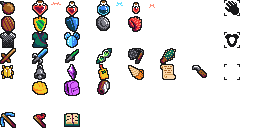
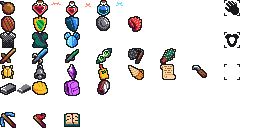
added whetstone

Changed region(s): [[0.0, 0.625, 0.125, 0.75], [0.5, 0.0, 0.625, 0.125], [0.3125, 0.0312, 0.375, 0.0625]]

diff --git a/ts/level/battle/battleManager.ts b/ts/level/battle/battleManager.ts
@@ -1,4 +1,9 @@
-import { ChangeCursorState, ChangeScene, EnemyAtack } from "../../action.js";
+import {
+  ChangeCursorState,
+  ChangeScene,
+  EnemyAtack,
+  LoseGame,
+} from "../../action.js";
 import { canvasManager } from "../../canvasManager.js";
 import { CURSORBATTLE } from "../../cursor.js";
 import GameObject from "../../gameElements/gameObject.js";
@@ -226,7 +231,6 @@ export default class BattleManager extends SceneManager {
     }
 
     // Render damage overlay
-
     damageOverlay.render();
   };
 
@@ -238,6 +242,9 @@ export default class BattleManager extends SceneManager {
     if (!gameState.battle) {
       alert("this shouldn't happen outside of battle");
       return;
+    }
+    if (gameState.health <= 0) {
+      return new LoseGame();
     }
     gameState.battle.enemies.forEach((e, i) => {
       if (e.health <= 0) {
@@ -316,7 +323,10 @@ export default class BattleManager extends SceneManager {
 
     // Cooldown
     const tiredTimer = gameState.tiredTimer;
-    tiredTimer.goalSecs = weapon.cooldown * playerInventory.armor.speedMult;
+    tiredTimer.goalSecs =
+      weapon.cooldown *
+      playerInventory.armor.speedMult *
+      (hasItem("whetstone") ? 1 - damage * 0.1 : 1);
     tiredTimer.start();
     return this.checkBattleEnd();
   }

diff --git a/ts/level/battle/enemy.ts b/ts/level/battle/enemy.ts
@@ -87,8 +87,8 @@ export class ScaleWorm extends Enemy {
       pos: new Position(56, 36),
       spriteSheet: sprites.enemy_scale_worm,
       health: 6 + Math.floor(depth / 3),
-      damage: 2 + Math.floor(depth / 5),
-      attackCooldown: 8 - Math.floor(depth / 3) * 0.5,
+      damage: 2 + Math.floor((depth / 6) * 2) / 2,
+      attackCooldown: 8 - Math.floor(depth / 3) * 0.3,
       stunSpriteShift: new Position(8, 21),
     });
   }
@@ -100,12 +100,12 @@ export class PosionWorm extends Enemy {
       pos: new Position(56, 36),
       spriteSheet: sprites.enemy_poison_worm,
       health: 3 + Math.floor(depth / 5),
-      damage: Math.max(0, 0 + Math.floor((depth - 5) / 4) / 2),
-      attackCooldown: 4 - depth * 0.1,
-      spikes: 0.5,
+      damage: Math.max(0, 0.5 + Math.floor((depth - 5) / 4) / 2),
+      attackCooldown: 6,
+      spikes: Math.max(0, 0.5 + Math.floor((depth - 5) / 4) / 2),
     });
     this.cooldownTimer.goalFunc = () => {
-      this.spikes += 0.5;
+      this.spikes += this.damage;
       return new EnemyAtack(this.damage, this);
     };
   }

diff --git a/ts/gameManager.ts b/ts/gameManager.ts
@@ -37,7 +37,7 @@ import { Consumable } from "./items/consumable/consumable.js";
 import consumableDict from "./items/consumable/dict.js";
 import Position from "./gameElements/position.js";
 import { utils } from "./utils.js";
-import { flagItem, picaxeItem } from "./items/uiItems.js";
+import { bookItem, flagItem, picaxeItem } from "./items/uiItems.js";
 import { DEV } from "./global.js";
 import Level from "./level/level.js";
 import { transitionOverlay } from "./level/transitionOverlay.js";
@@ -375,6 +375,7 @@ export default class GameManager {
       ...Object.values(playerInventory),
       picaxeItem,
       flagItem,
+      bookItem,
     ];
 
     const actions: Action[] | void = handleMouseInput(gameObjects);

diff --git a/ts/items/uiItems.ts b/ts/items/uiItems.ts
@@ -1,3 +1,4 @@
+import { ToggleBook } from "../action.js";
 import Position from "../gameElements/position.js";
 import { GAMEWIDTH } from "../global.js";
 import { Item } from "./item.js";
@@ -18,3 +19,13 @@ export const flagItem = new Item({
   descriptionText: "Right click any block to mark it as a possible threat.",
   pos: new Position(GAMEWIDTH - 20, 109),
 });
+export const bookItem = new Item({
+  spriteSheetPos: new Position(4, 7),
+  name: "book",
+  shopName: "",
+  cost: 0,
+  descriptionText: "Click to open or close the guide book.",
+  pos: new Position(GAMEWIDTH - 20, 128),
+});
+
+bookItem.clickFunction = () => new ToggleBook();

diff --git a/ts/renderBorder.ts b/ts/renderBorder.ts
@@ -5,7 +5,7 @@ import { GAMEHEIGHT, GAMEWIDTH, LEFT, CENTER } from "./global.js";
 import Position from "./gameElements/position.js";
 import { sprites } from "./sprites.js";
 import playerInventory, { type inventory } from "./playerInventory.js";
-import { flagItem, picaxeItem } from "./items/uiItems.js";
+import { bookItem, flagItem, picaxeItem } from "./items/uiItems.js";
 
 /**
  * Renders the current game stats
@@ -87,6 +87,7 @@ function renderItems() {
   }
   picaxeItem.render();
   flagItem.render();
+  bookItem.render();
 }
 
 // Object for the border of the game

diff --git a/ts/items/genericDict.ts b/ts/items/genericDict.ts
@@ -48,6 +48,14 @@ const genericDict = {
     cost: 8,
     descriptionText: "Gain 2 gold for every enemy killed.",
   }),
+  whetstone: new Item({
+    spriteSheetPos: new Position(0, 5),
+    name: "whetstone",
+    shopName: "Whetstone",
+    cost: 18,
+    descriptionText:
+      "Reduces weapon $spdcooldown after attacking for 10% per damage dealt.",
+  }),
   safety_helmet: new Item({
     spriteSheetPos: new Position(2, 5),
     name: "safety_helmet",

diff --git a/ts/level/cave/cave.ts b/ts/level/cave/cave.ts
@@ -18,8 +18,8 @@ export default class Cave {
   bellRang = false;
 
   constructor(depth: number) {
-    this.difficulty = (depth % 3) + Math.floor(depth / 3) + 4;
-    this.size = Math.floor(depth / 3) + 6;
+    this.difficulty = (depth % 4) + Math.floor(depth / 3) + 4;
+    this.size = Math.floor(depth / 4) + 6;
     this.hasShop = depth > 0;
     this.hasWater = depth > 1 && utils.randomInt(3) == 0;
     this.wormQuantity = Math.floor(
